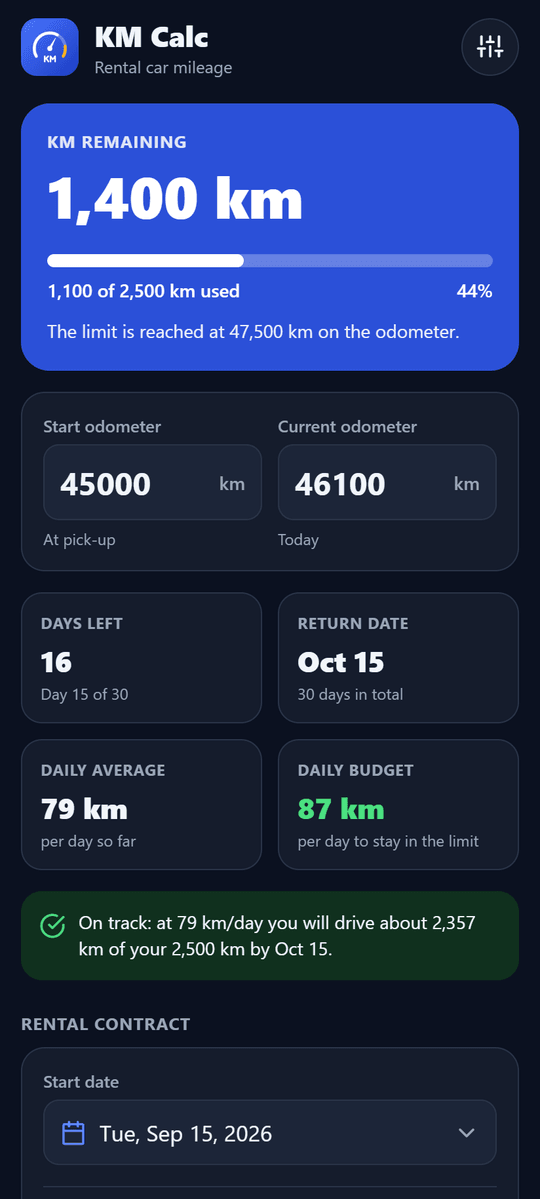
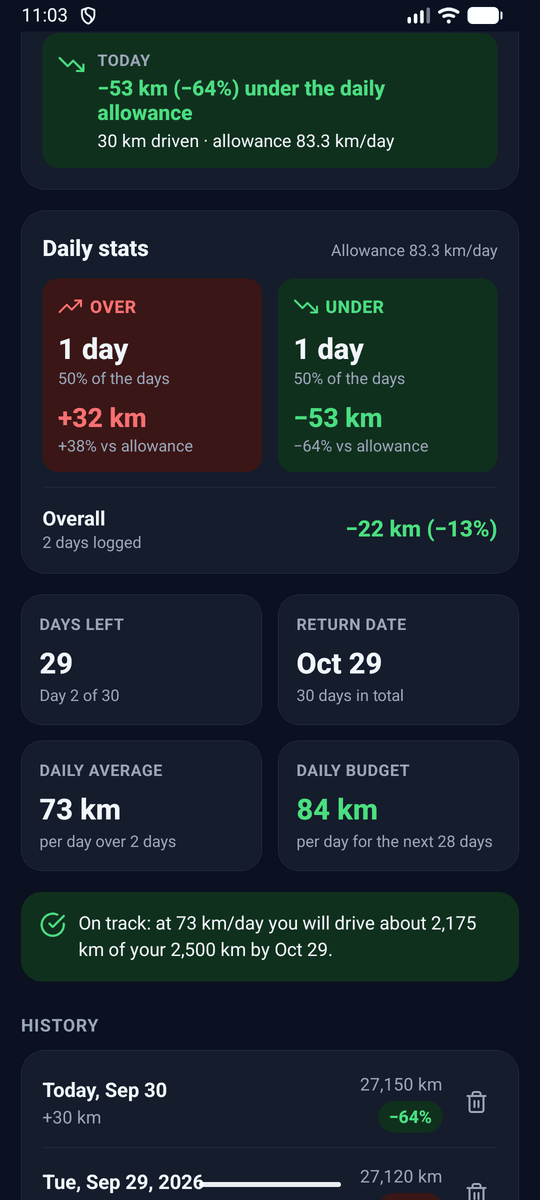
README: Android screenshots of the daily log and stats

diff --git a/README.md b/README.md
@@ -13,10 +13,10 @@
 </p>
 
 <p align="center">
-  <img src="docs/screenshots/on-track.png" width="200" alt="KM remaining with the daily budget" />
-  <img src="docs/screenshots/over-limit.png" width="200" alt="Over the limit with the extra charge" />
+  <img src="docs/screenshots/daily-reading.png" width="200" alt="KM remaining and today's reading compared with the daily allowance" />
+  <img src="docs/screenshots/daily-stats.png" width="200" alt="Daily stats: days over and under the allowance" />
+  <img src="docs/screenshots/history.png" width="200" alt="History of the daily readings" />
   <img src="docs/screenshots/dark-mode.png" width="200" alt="Dark mode" />
-  <img src="docs/screenshots/defaults.png" width="200" alt="Editing the default values" />
 </p>
 
 ## What it does
